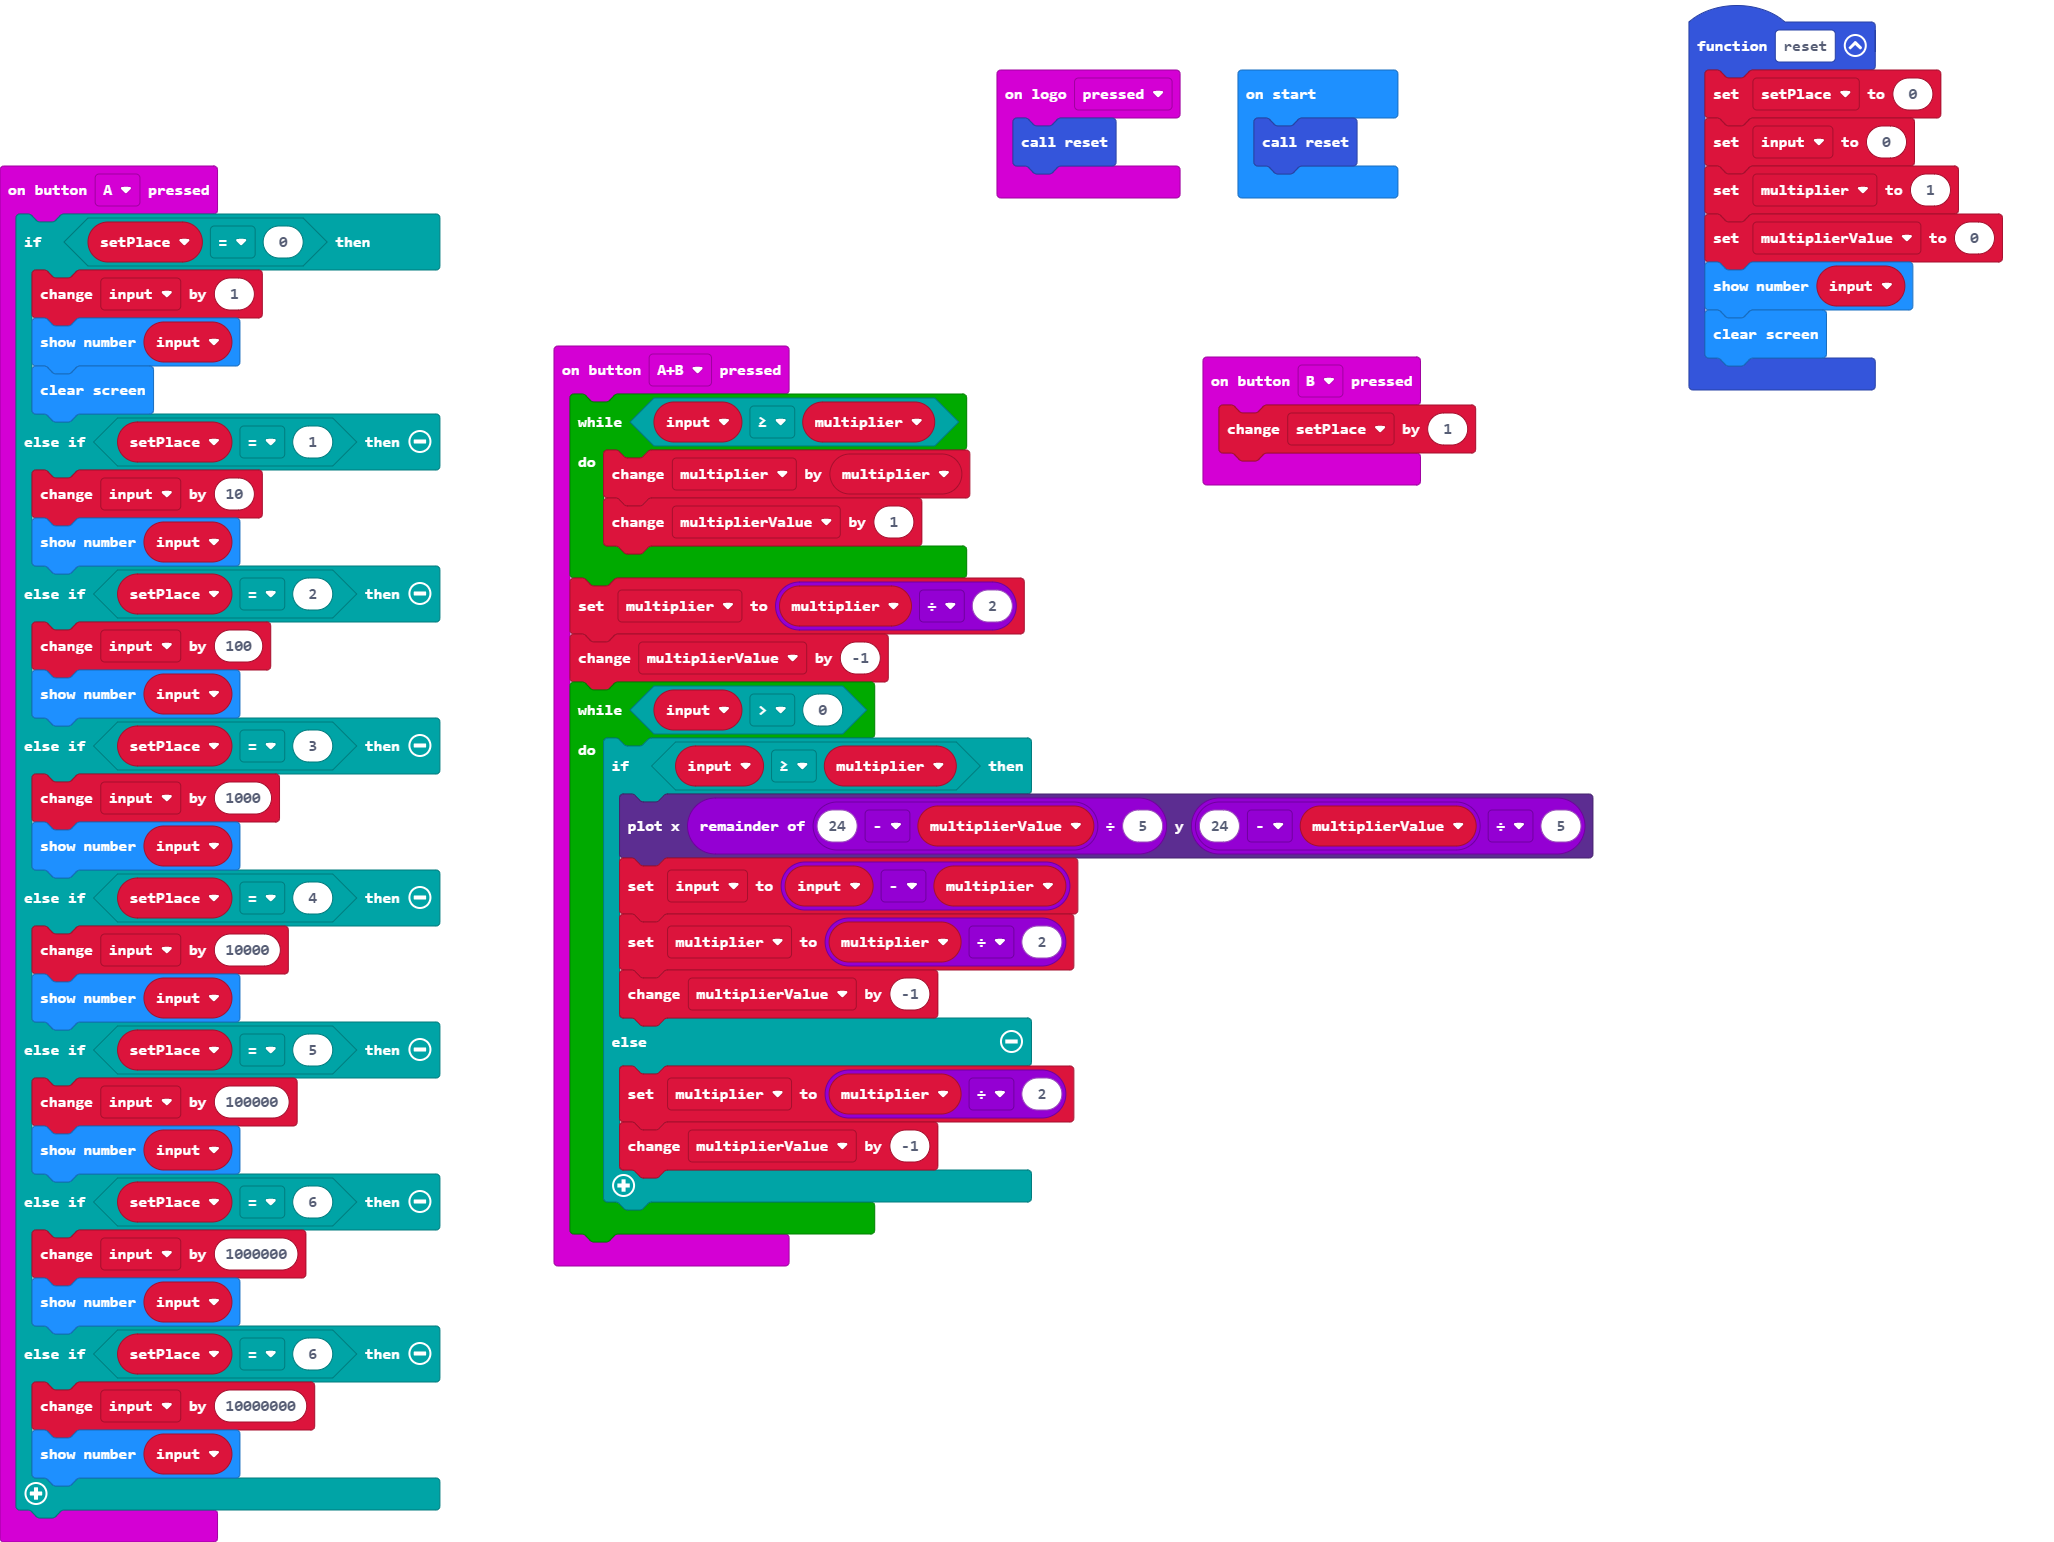
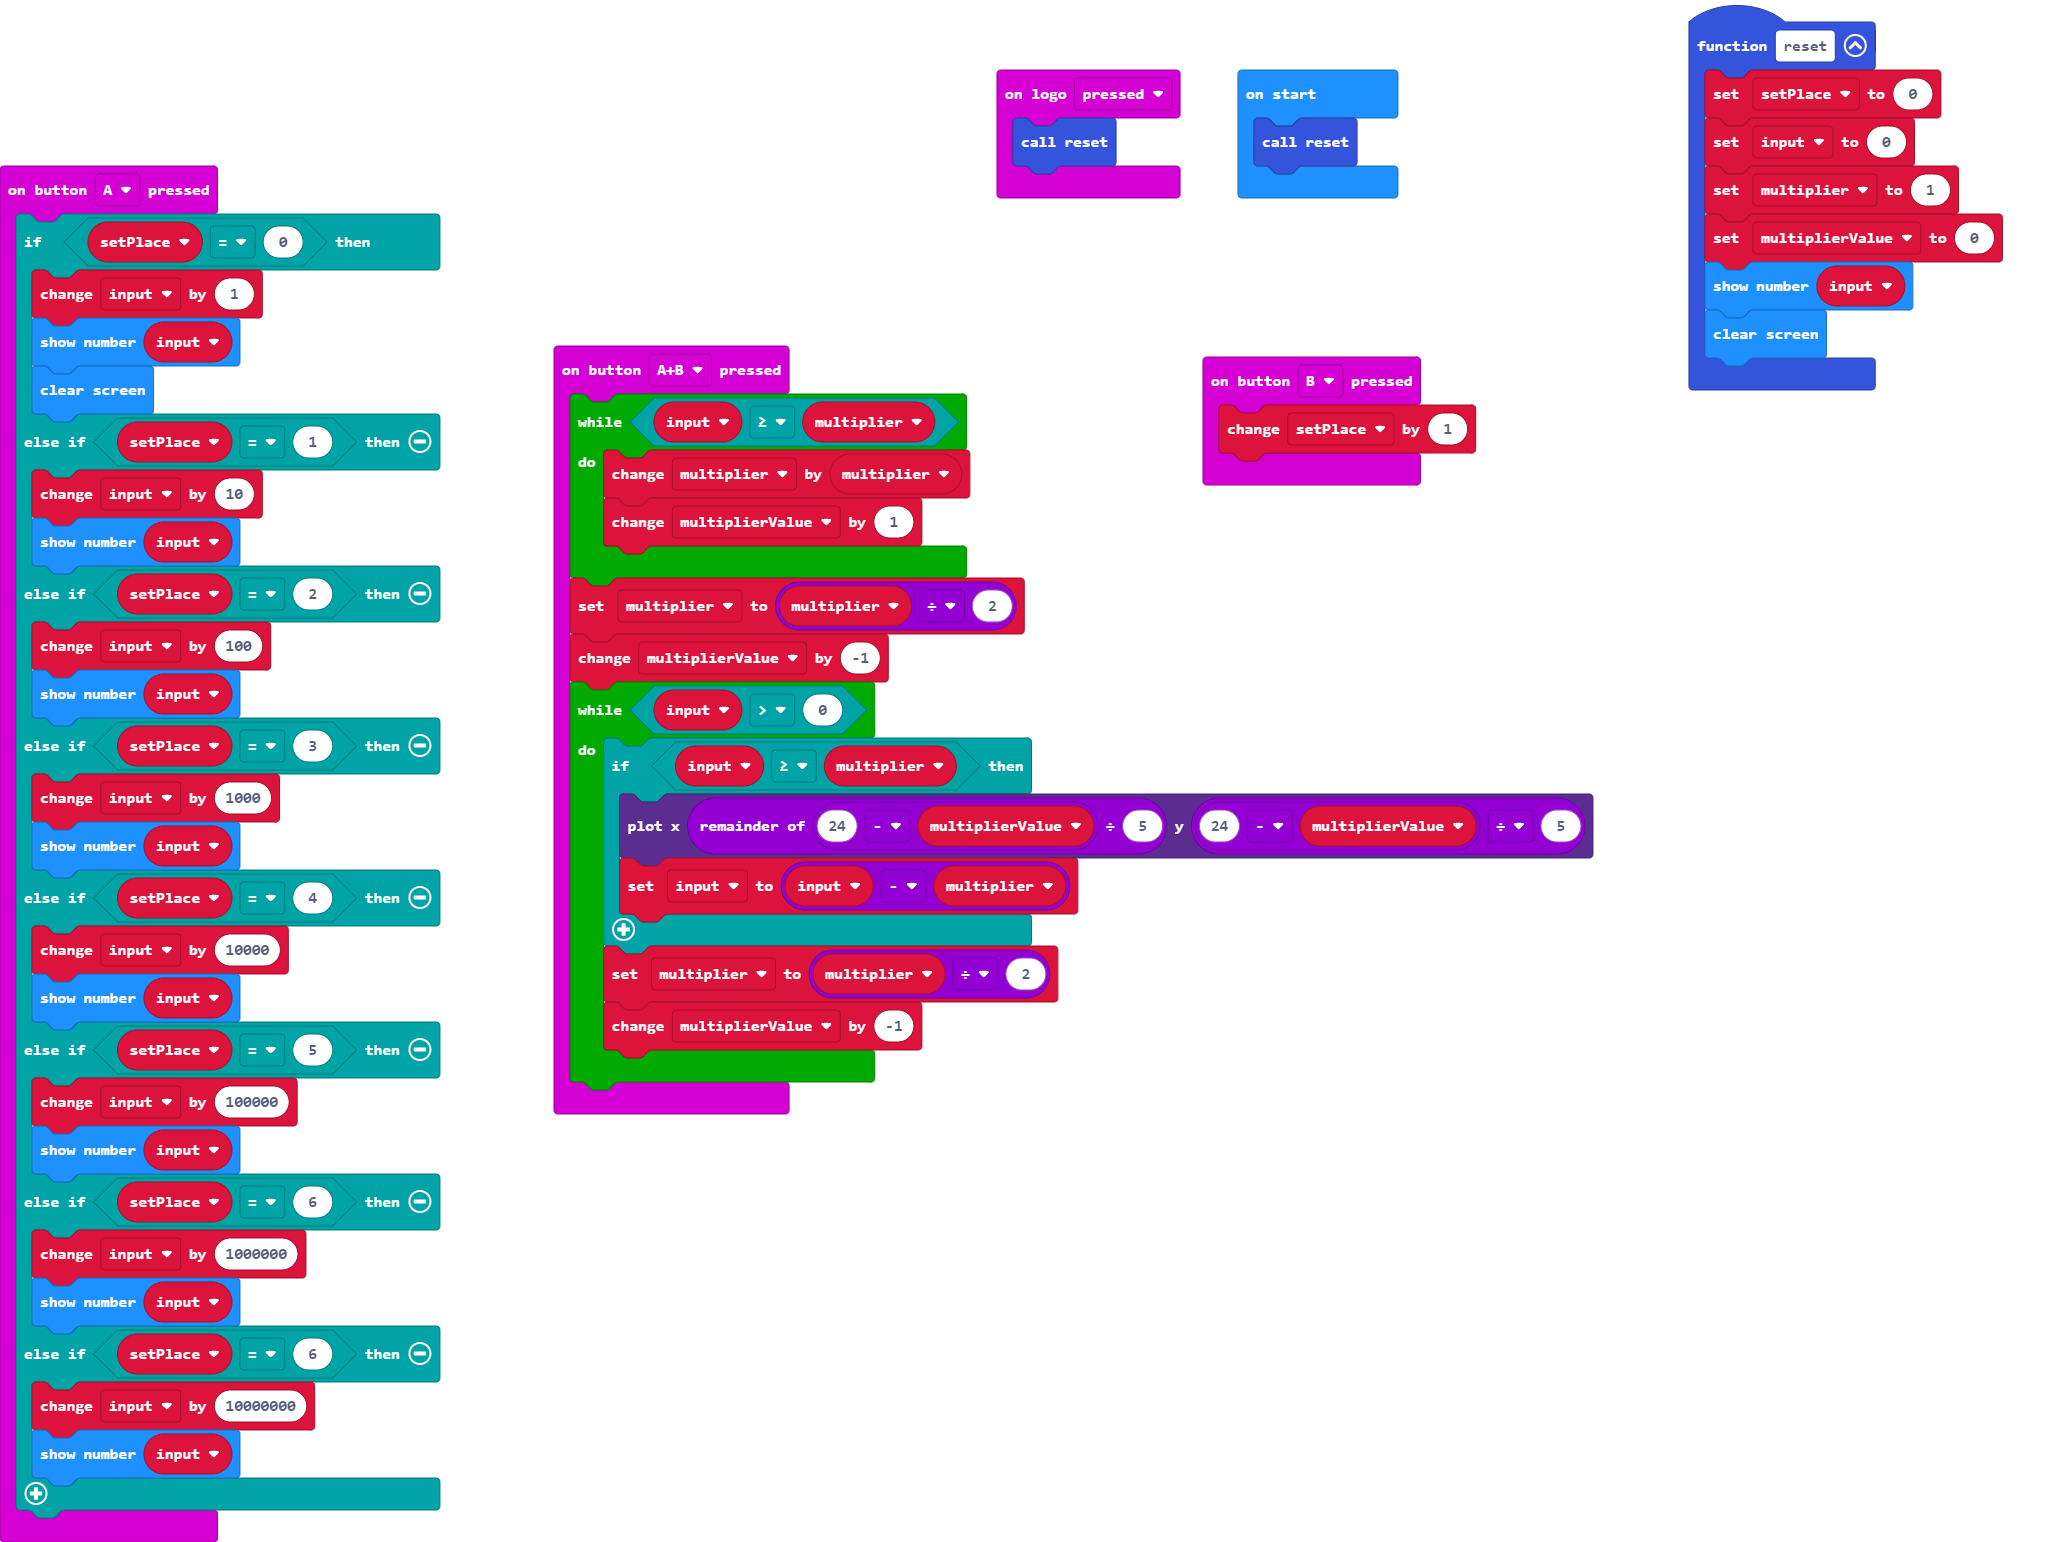
Update main.blocks, main.ts

Changed region(s): [[0.2493, 0.5914, 0.5297, 0.8405]]

diff --git a/main.ts b/main.ts
@@ -37,12 +37,9 @@ input.onButtonPressed(Button.AB, function () {
         if (input2 >= multiplier) {
             led.plot((24 - multiplierValue) % 5, (24 - multiplierValue) / 5)
             input2 = input2 - multiplier
-            multiplier = multiplier / 2
-            multiplierValue += -1
-        } else {
-            multiplier = multiplier / 2
-            multiplierValue += -1
         }
+        multiplier = multiplier / 2
+        multiplierValue += -1
     }
 })
 input.onButtonPressed(Button.B, function () {
